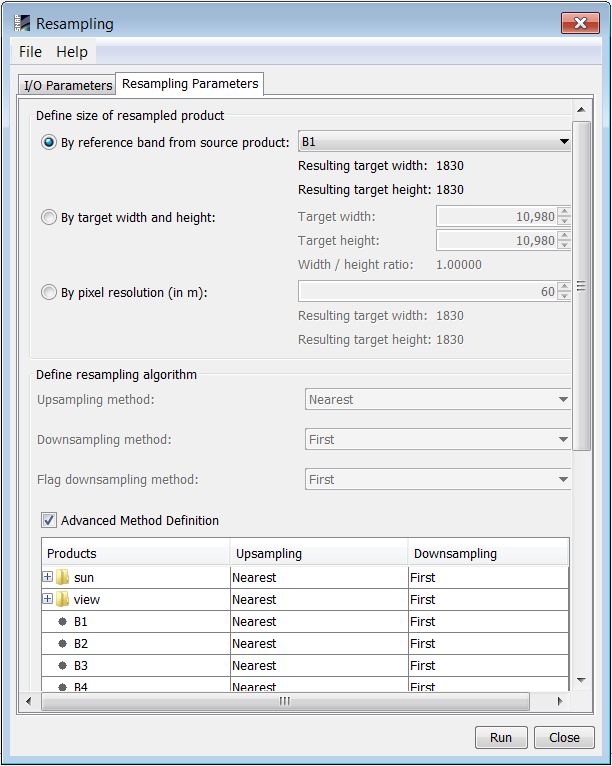
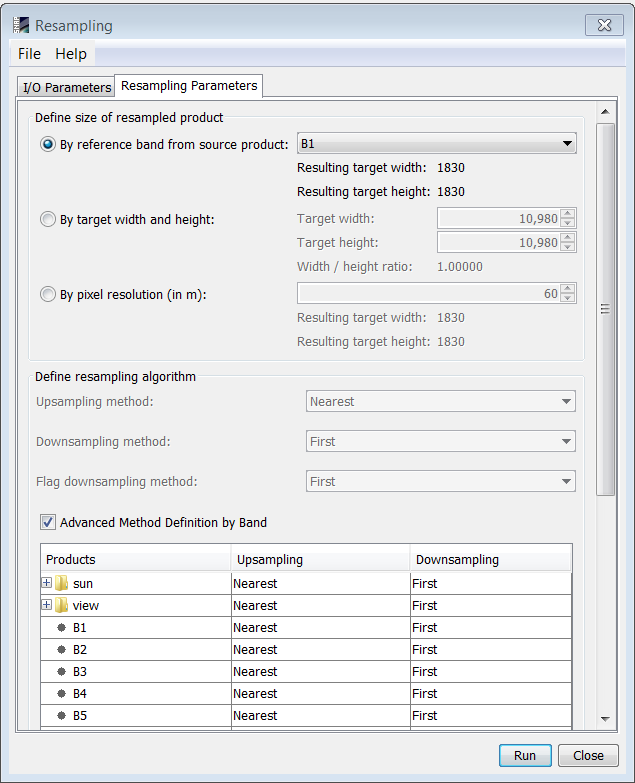
Update resampling gui

Changed region(s): [[0.0, 0.0, 1.0, 1.0], [0.0621, 0.3603, 0.3415, 0.3903], [0.0621, 0.2702, 0.3415, 0.3003]]

diff --git a/snap-help/src/main/resources/org/esa/snap/snap/help/docs/desktop/Resample.html b/snap-help/src/main/resources/org/esa/snap/snap/help/docs/desktop/Resample.html
@@ -201,7 +201,7 @@
                 If it is set for exactly half the pixels, it is set for the output pixel.
             </p>
 
-            <h5>Advanced method definition</h5>
+            <h5>Advanced method definition by band</h5>
 
             <p class="i1">
                 A table allow to select the resampling methods individually for each band.

diff --git a/snap-gpf-ui/src/main/java/org/esa/snap/core/gpf/ui/resample/ResamplingDialog.java b/snap-gpf-ui/src/main/java/org/esa/snap/core/gpf/ui/resample/ResamplingDialog.java
@@ -372,7 +372,7 @@ class ResamplingDialog extends SingleTargetProductDialog {
 
 
     private JPanel createAdvancedCheckBoxPanel() {
-        advancedMethodCheckBox = new JCheckBox("Advanced Method Definition", false);
+        advancedMethodCheckBox = new JCheckBox("Advanced Method Definition by Band", false);
 
         advancedMethodCheckBox.addItemListener(new ItemListener() {
 

diff --git a/snap-graph-builder/src/main/java/org/esa/snap/graphbuilder/gpf/ui/ResamplingUI.java b/snap-graph-builder/src/main/java/org/esa/snap/graphbuilder/gpf/ui/ResamplingUI.java
@@ -849,7 +849,7 @@ public class ResamplingUI extends BaseOperatorUI {
 
 
     private JPanel createAdvancedCheckBoxPanel() {
-        advancedMethodCheckBox = new JCheckBox("Advanced Method Definition", false);
+        advancedMethodCheckBox = new JCheckBox("Advanced Method Definition by Band", false);
 
         advancedMethodCheckBox.addItemListener(new ItemListener() {
 
